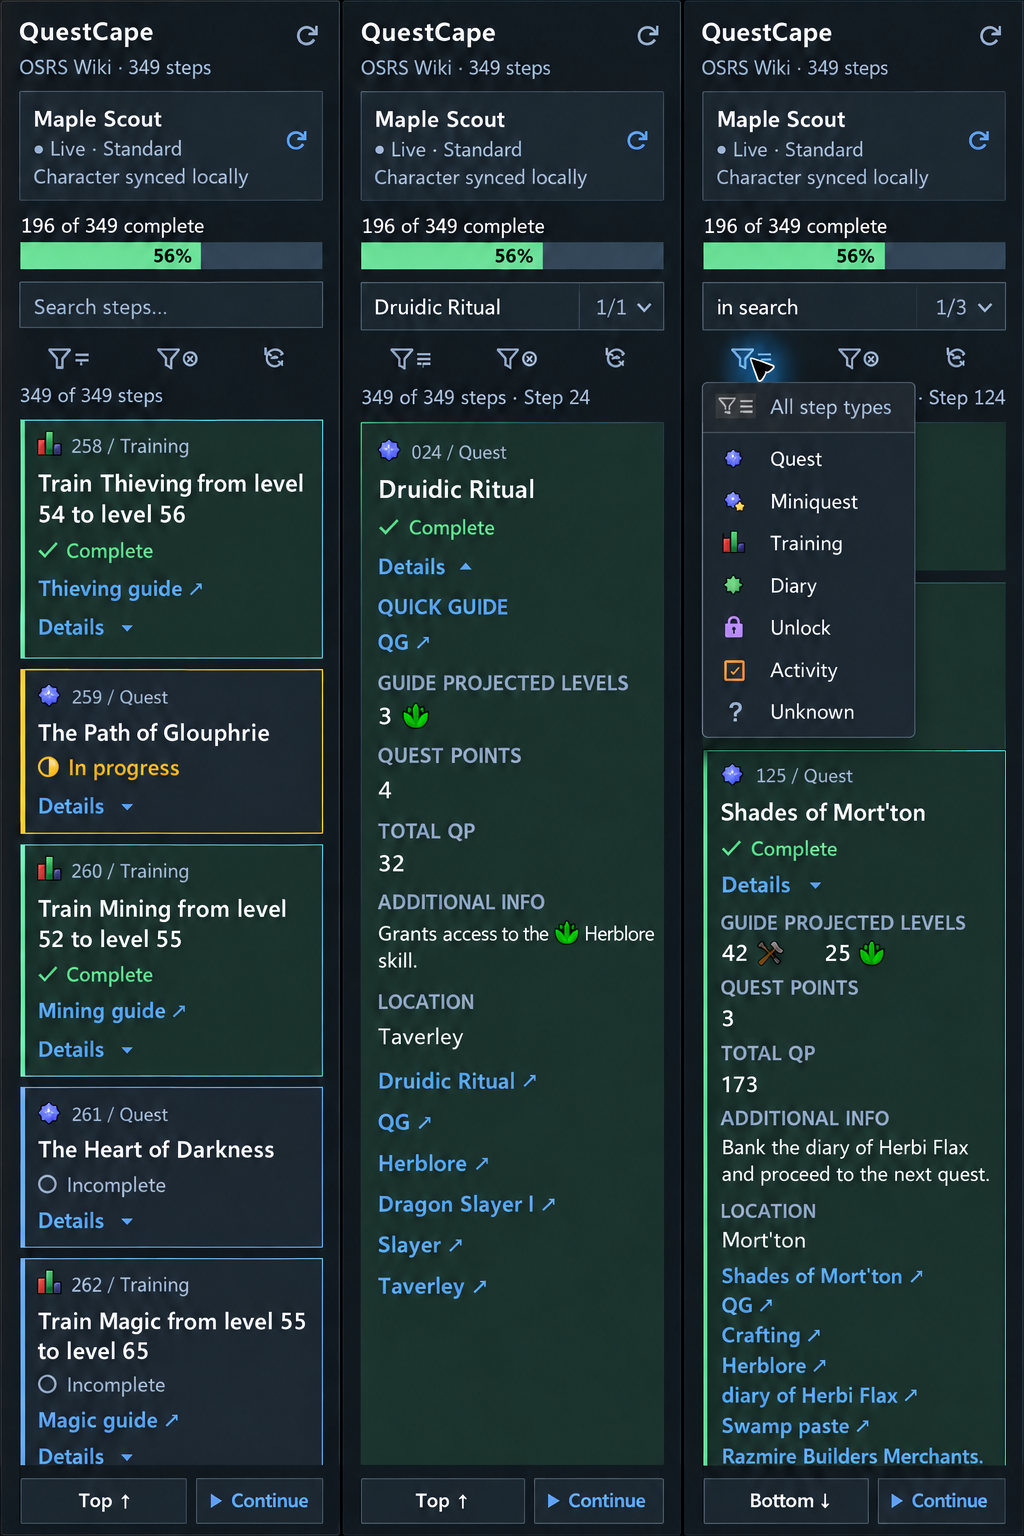
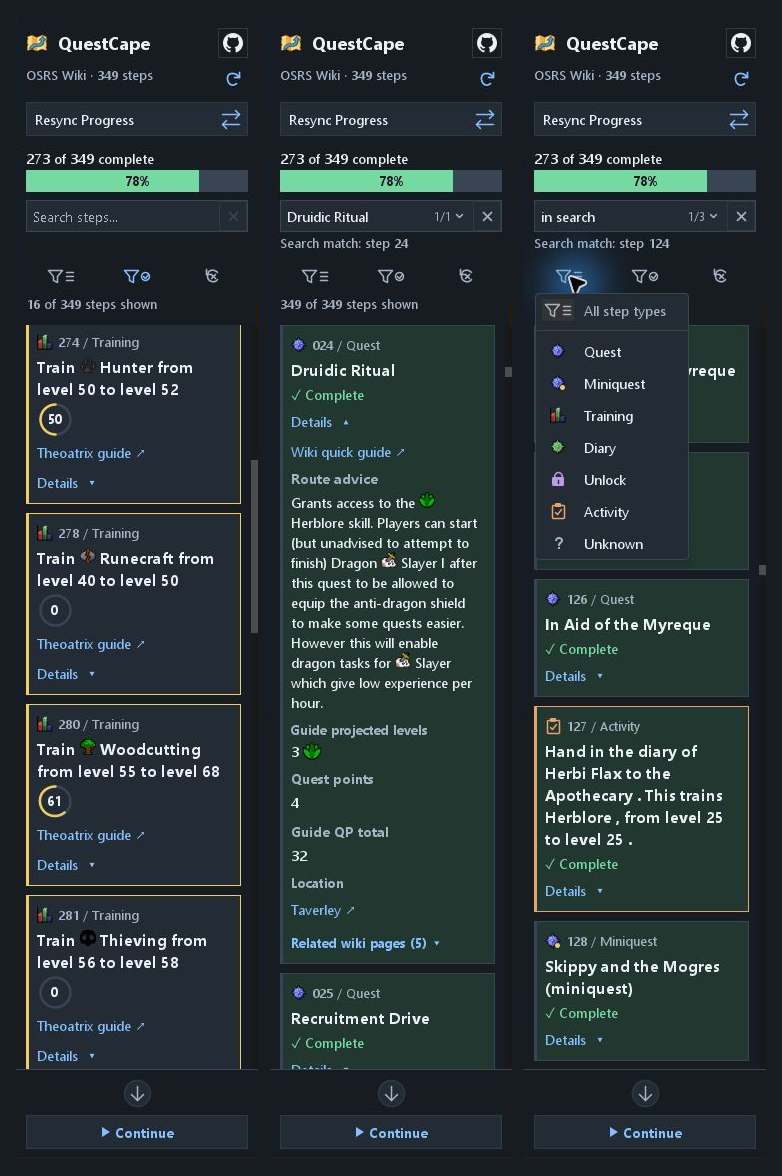
docs: replace branding artwork with live RuneLite panel captures

Changed region(s): [[0.0, 0.0, 0.9821, 1.0], [0.89, 0.3061, 0.9207, 0.3367], [0.2455, 0.2143, 0.2762, 0.2449]]

diff --git a/docs/branding/readme-screenshots.md b/docs/branding/readme-screenshots.md
@@ -1,23 +1,47 @@
-> Historical 3.0.1 illustrative artwork, withdrawn from the 3.1.0 README. These fictional views are not current UI evidence; the approved live-capture review in `.research/questcape-ui-ux-review.md` governs the sidebar candidate.
+# Live branding screenshots — 16 October 2026
 
-# README screenshot provenance — 2026-10-12
+The user explicitly authorized browsing **QuestCape's RuneLite client panel**
+and taking branding screenshots, excluding game input. The existing open client
+was used with the `computer-use` skill. No game world, inventory, chat, combat,
+login or other gameplay control was operated. RuneLite's inert title bar was
+clicked to move the pointer outside the sidebar for clean captures.
 
-The README asset is `docs/ui/questcape-branding.png`, a three-panel illustrative composite based on the user's current open RuneLite client. The user explicitly authorized capture and browsing QuestCape's sidebar. A fresh read-only capture succeeded after that authorization; the earlier automatic approval rejection is historical, not a current capture blocker.
+The replacement [three-panel composite](../ui/questcape-branding.png) is
+**782 × 1176**, made from three **242 × 1144** live sidebar crops. It replaces
+the older fictional/AI-assisted illustration at the same path. No image
+generation, redrawn UI, rescaling, fabricated character values, shortened advice,
+altered icons or reconstructed text was used. The capture tool delivers JPEG
+screenshots; the crops and composite use lossless PNG output to avoid another
+lossy conversion. Source capture compression remains visible at native size.
 
-Only QuestCape's sidebar controls were used: search, Details, the type popup and reset. No world, inventory, combat, chat or login controls were operated. The visible original route position, empty search and collapsed Path of Glouphrie card were restored. Other visited Details expansions remain session-only. This was screenshot collection, not in-game acceptance or compliance verification.
+| Image | Actual captured view |
+| --- | --- |
+| [Training progress](../ui/questcape-branding-training.png) | In progress filter; Hunter circle 50, Woodcutting circle 61, original skill icons and instructions. The numbers are percentages without a `%` suffix. |
+| [Quest details](../ui/questcape-branding-details.png) | Druidic Ritual expanded with original route advice, projected Herblore level, Quest points 4, Guide QP total 32, Taverley and folded related-page subsection. |
+| [Search and filters](../ui/questcape-branding-search.png) | `in search`, match 1/3 at step 124, and the genuine type-filter popup. No type selection was changed. |
+| [Next-step overview](../ui/questcape-branding-overview.png) | Additional standalone option showing Lunar Diplomacy, completed Defence training, King's Ransom and Knight Waves. |
 
-Three live source captures show the progress/card overview, Druidic Ritual expanded with actual local skill icons and guide links, and the `in search` result with the type popup. Source captures remain in ignored `.research/branding-current/`, excluded from Git; the public asset contains only sidebar illustrations, with no game world/chat/title bar.
+The composite uses training, quest details and search/filter views from left to
+right. All captures show the actual **273 of 349 complete / 78%** summary. No
+player name, window title, game world, chat or RuneLite navigation rail appears
+in the delivered crops. Native viewport clipping and the captured menu pointer
+are retained rather than edited out.
 
-The built-in image-generation tool edited/composited the captures. The final image uses the fictional player **Maple Scout**, **196 of 349 complete / 56%**, an illustrative In progress Path of Glouphrie state, and shortened genuine note excerpts. It is a branding illustration rather than a pixel-exact unedited capture or evidence of observed character state. README caption/alt text make its illustrative nature clear.
+Private source captures, crop coordinates, SHA-256 fingerprints, restoration
+capture and reproduction script remain under ignored
+`.research/branding-live-2026-10-16/`. The script crops window rectangle
+`left=2175, top=27, width=242, height=1144`, then places three crops with 16-pixel
+outer margins and 12-pixel gaps. It verifies that every composite panel matches
+its decoded source-crop pixels exactly: **zero screenshot pixels changed**.
+Raw captures include the surrounding client and are excluded from Git.
 
-The final asset was inspected for fictional identity and consistent progress across all columns, legible step titles, matching quest details (Druidic Ritual: step 24, 3 Herblore, 4 QP, 32 total QP; Shades of Mort'ton: step 125, 42 Crafting/25 Herblore, 3 QP, 173 total QP), actual recognizable skill/type artwork, search counters and absence of game/chat/player data. Initial padded/mismatched drafts were rejected. Minor layout/artwork differences from the source are expected in this AI-assisted composite; it is not a UI regression baseline. Plugin code/version remains 3.0.1; no new build or game acceptance claim is made for documentation-only changes.
+The session finished with the **original empty search, all type/progress states,
+first route step, folded Druidic Ritual and closed popups restored**. No manual
+completion, account setting, route refresh, progress resync or external link was
+activated. A manual-input notification caused a fresh observation before the
+next action; stale coordinates were not reused.
 
-## Prompt set
-
-Built-in tool mode; no CLI/API fallback. Prompts are retained here in condensed form with all intended edits:
-
-1. Crop the first live screenshot to QuestCape only; preserve actual controls/cards; replace the name with Maple Scout, count with 196 of 349, percentage/fill with 56%; make step 259 In progress. Reject this draft because it added white padding and corrupted the final card.
-2. Composite sidebar crops from all three live captures into three tightly adjacent dark panels, without game/chat/window title/toolbar or white padding. Apply the same fictional identity/progress to all. Left: retain steps 258–262 and their guide links, with step 259 In progress. Center: retain Druidic Ritual, 1/1 search, projected 3 Herblore, 4 QP/32 total QP, actual skill icon, first note sentence, Taverley and guide links. Right: retain `in search`, 1/3, Step 124 summary and the actual seven-type menu; show Shades of Mort'ton details beneath it with the first real note sentence. Preserve bottom Top/Bottom/Continue controls. No added capabilities or real player names.
-3. Correct only the composite's mismatched right-hand card header to step 125 / Shades of Mort'ton; remove invented clear-X controls and use small downward chevrons beside 1/1 and 1/3; use the half-filled-circle In progress glyph with a gold card outline; point the center expanded Details arrow upward. Preserve all other content and the 1024×1536 output.
-
-Final saved workspace path: `docs/ui/questcape-branding.png`. The original built-in output remains under the host's generated-images directory. Acceptance of automatic progress, Ubuntu diagnosis/retest, final post-acceptance RuneLite/Jagex audit and publication gates remain outstanding.
+This is documentation/branding work, not user acceptance of plugin behavior.
+Source/build/version remain **3.1.0**. RuneLite was already open, so no launch or
+login was required. The local branch remains unpushed and unmerged; combined
+functional acceptance and the subsequent rules audit stay pending.

diff --git a/README.md b/README.md
@@ -11,6 +11,10 @@ Follow the [OSRS Wiki's optimal quest guide](https://oldschool.runescape.wiki/w/
 
 **Track progress · Read quest notes · Find your next step**
 
+![Live QuestCape sidebar showing training progress, expanded quest advice, and search with step-type filters](docs/ui/questcape-branding.png)
+
+*Live RuneLite captures, 16 October 2026. Sidebar crops combined without changing text, icons or progress. [Screenshot provenance](docs/branding/readme-screenshots.md).*
+
 The local `3.1.0` candidate adds hold-Ctrl text selection while preserving immediate card disclosure, counterclockwise training percentage circles, Shift + right-click link copying and stable fold positioning. It retains the layered refactor and awaits user acceptance; see [candidate evidence and checklist](docs/verification-3.1.0-current.md).
 
 ## Get started
